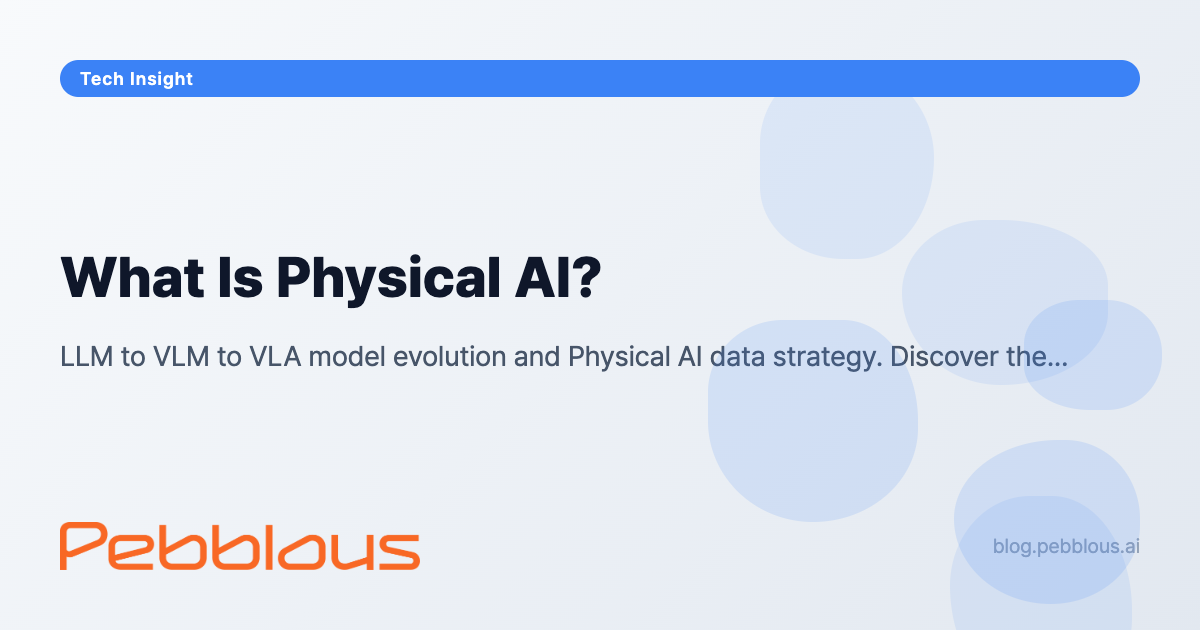
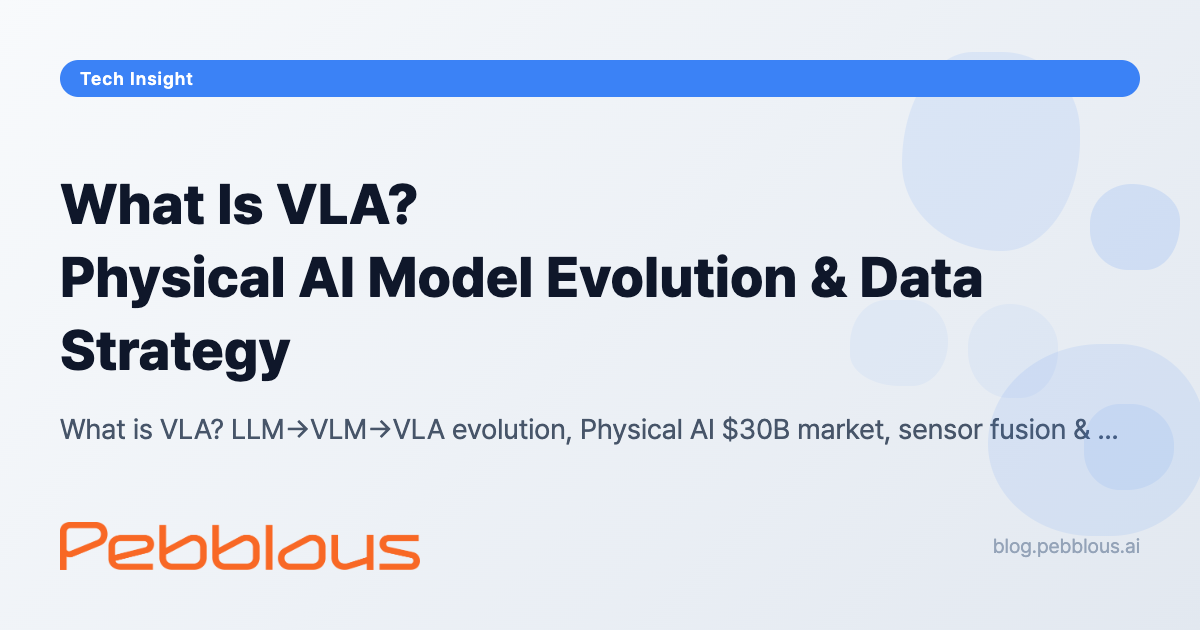
seo: Physical AI → VLA 키워드 앞배치 CTR 최적화 (KO/EN)
GSC: "vla" 키워드 +1,600% 급증, 노출 411 / CTR 4.4%
- title 앞에 "VLA(Vision-Language-Action)란?" 배치
- description에 VLA 모델 진화 경로 명시
- KO/EN meta, og, twitter, config, articles.json 동기화
- OG 이미지 재생성

SEO Action Plan P0 #2

diff --git a/project/PhysicalAI/physical-ai/ko/index.html b/project/PhysicalAI/physical-ai/ko/index.html
@@ -8,8 +8,8 @@
     <meta name="robots" content="index, follow">
     <meta name="revisit-after" content="7 days">
 
-    <title>피지컬 AI란? LLM과 VLA의 차이, 그리고 데이터 전략 | 페블러스</title>
-    <meta name="description" content="피지컬 AI란 무엇인가? LLM(언어)에서 VLM(시각), VLA(행동)까지 AI 모델의 진화와 차이점을 설명합니다. 2025년 40조 원 규모 시장, 센서 퓨전, Sim-to-Real Gap 등 핵심 데이터 전략을 확인하세요.">
+    <title>VLA(Vision-Language-Action)란? — 피지컬 AI 모델 진화와 데이터 전략 | 페블러스</title>
+    <meta name="description" content="VLA(Vision-Language-Action) 모델이란? LLM→VLM→VLA 진화 과정, 피지컬 AI 40조 원 시장, 센서 퓨전, Sim-to-Real Gap 등 핵심 데이터 전략을 비교합니다.">
     <meta name="keywords" content="피지컬 AI, Physical AI, VLA, VLM, LLM, Vision Language Action, 피지컬 AI 데이터, 센서 퓨전, Sim-to-Real Gap, 합성 데이터, Synthetic Data, 로보틱스 파운데이션 모델, 엠바디드 AI, Embodied AI, 피지컬 AI 2025, 휴머노이드, 스마트 팩토리, AI 자율제조, NVIDIA Omniverse, 디지털 트윈, 페블러스, Pebblous, DataClinic, AI-Ready Data, AI Safety, AI 안전성, 에지 컴퓨팅, Edge Computing, On-device AI, 온디바이스 AI, AI 레드티밍, Edge Case, 에지 케이스, Gartner, 자율 제조, AMR, AGV, Low Latency, Lightweight Data">
 
     <link rel="canonical" href="https://blog.pebblous.ai/project/PhysicalAI/physical-ai/ko/">
@@ -18,25 +18,25 @@
     <link rel="alternate" hreflang="x-default" href="https://blog.pebblous.ai/project/PhysicalAI/physical-ai/en/">
 
     <!-- Open Graph -->
-    <meta name="og-image-title" content="피지컬 AI란?&#10;LLM과 VLA의 차이, 그리고 데이터 전략">
-    <meta property="og:title" content="피지컬 AI란? LLM과 VLA의 차이, 그리고 데이터 전략">
-    <meta property="og:description" content="LLM→VLM→VLA 모델 진화와 피지컬 AI 데이터 전략. 2025년 40조 원 시장의 핵심을 확인하세요.">
+    <meta name="og-image-title" content="VLA(Vision-Language-Action)란?&#10;피지컬 AI 모델 진화와 데이터 전략">
+    <meta property="og:title" content="VLA(Vision-Language-Action)란? — 피지컬 AI 모델 진화와 데이터 전략">
+    <meta property="og:description" content="VLA 모델이란? LLM→VLM→VLA 진화 과정과 피지컬 AI 40조 원 시장의 핵심 데이터 전략을 비교합니다.">
     <meta property="og:type" content="article">
     <meta property="og:url" content="https://blog.pebblous.ai/project/PhysicalAI/physical-ai/ko/">
     <meta property="og:image" content="https://blog.pebblous.ai/project/PhysicalAI/image/physical-ai.png">
     <meta property="og:image:width" content="1200">
     <meta property="og:image:height" content="630">
-    <meta property="og:image:alt" content="피지컬 AI란? LLM과 VLA의 차이, 그리고 데이터 전략">
+    <meta property="og:image:alt" content="VLA(Vision-Language-Action)란? — 피지컬 AI 모델 진화와 데이터 전략">
     <meta property="og:site_name" content="Pebblous Blog">
     <meta property="og:locale" content="ko_KR">
     <meta property="article:published_time" content="2025-12-27">
 
     <!-- Twitter Card -->
     <meta name="twitter:card" content="summary_large_image">
-    <meta name="twitter:title" content="피지컬 AI란? LLM과 VLA의 차이, 그리고 데이터 전략">
-    <meta name="twitter:description" content="LLM→VLM→VLA 모델 진화와 피지컬 AI 데이터 전략. 2025년 40조 원 시장의 핵심.">
+    <meta name="twitter:title" content="VLA(Vision-Language-Action)란? — 피지컬 AI 모델 진화와 데이터 전략">
+    <meta name="twitter:description" content="VLA 모델이란? LLM→VLM→VLA 진화 과정과 피지컬 AI 40조 원 시장의 핵심 데이터 전략.">
     <meta name="twitter:image" content="https://blog.pebblous.ai/project/PhysicalAI/image/physical-ai.png">
-    <meta name="twitter:image:alt" content="피지컬 AI란? LLM과 VLA의 차이, 그리고 데이터 전략">
+    <meta name="twitter:image:alt" content="VLA(Vision-Language-Action)란? — 피지컬 AI 모델 진화와 데이터 전략">
     <meta name="twitter:site" content="@pebblous">
     <meta name="twitter:creator" content="@pebblous">
 
@@ -1371,9 +1371,9 @@
     <script>
         document.addEventListener('DOMContentLoaded', async function() {
             const config = {
-                mainTitle: "피지컬 AI란?",
-                subtitle: "LLM과 VLA의 차이, 그리고 데이터 전략",
-                pageTitle: "피지컬 AI(Physical AI)란? LLM과 VLA의 차이, 그리고 데이터 전략 | 페블러스",
+                mainTitle: "VLA(Vision-Language-Action)란?",
+                subtitle: "피지컬 AI 모델 진화와 데이터 전략",
+                pageTitle: "VLA(Vision-Language-Action)란? — 피지컬 AI 모델 진화와 데이터 전략 | 페블러스",
                 publishDate: "2025년 12월 27일",
                 publisher: "(주)페블러스 데이터 커뮤니케이션팀",
                 defaultTheme: "light",

diff --git a/project/PhysicalAI/physical-ai/en/index.html b/project/PhysicalAI/physical-ai/en/index.html
@@ -8,8 +8,8 @@
     <meta name="robots" content="index, follow">
     <meta name="revisit-after" content="7 days">
 
-    <title>Physical AI: LLM vs VLA Differences and Data Strategy | Pebblous</title>
-    <meta name="description" content="What is Physical AI? From LLM to VLM to VLA — understanding the model evolution, data strategy, and the $30B market opportunity in 2025.">
+    <title>What Is VLA (Vision-Language-Action)? — Physical AI Model Evolution & Data Strategy | Pebblous</title>
+    <meta name="description" content="What is VLA (Vision-Language-Action)? From LLM to VLM to VLA — the model evolution behind Physical AI, sensor fusion, Sim-to-Real Gap, and the $30B market data strategy.">
     <meta name="keywords" content="Physical AI, VLA, VLM, LLM, Vision Language Action, Physical AI Data, Sensor Fusion, Sim-to-Real Gap, Synthetic Data, Robotics Foundation Model, Embodied AI, Physical AI 2025, Humanoid, Smart Factory, AI Autonomous Manufacturing, NVIDIA Omniverse, Digital Twin, Pebblous, DataClinic, AI-Ready Data, AI Safety, Edge Computing, On-device AI, AI Red-teaming, Edge Case, Gartner, Autonomous Manufacturing, AMR, AGV, Low Latency, Lightweight Data">
 
     <link rel="canonical" href="https://blog.pebblous.ai/project/PhysicalAI/physical-ai/en/">
@@ -18,25 +18,25 @@
     <link rel="alternate" hreflang="x-default" href="https://blog.pebblous.ai/project/PhysicalAI/physical-ai/en/">
 
     <!-- Open Graph -->
-    <meta name="og-image-title" content="What Is Physical AI?">
-    <meta property="og:title" content="What Is Physical AI? Differences Between LLM and VLA, and Data Strategy">
-    <meta property="og:description" content="LLM to VLM to VLA model evolution and Physical AI data strategy. Discover the essentials of the $30B market in 2025.">
+    <meta name="og-image-title" content="What Is VLA?&#10;Physical AI Model Evolution & Data Strategy">
+    <meta property="og:title" content="What Is VLA (Vision-Language-Action)? — Physical AI Model Evolution & Data Strategy">
+    <meta property="og:description" content="What is VLA? LLM→VLM→VLA evolution, Physical AI $30B market, sensor fusion & Sim-to-Real Gap data strategy.">
     <meta property="og:type" content="article">
     <meta property="og:url" content="https://blog.pebblous.ai/project/PhysicalAI/physical-ai/en/">
     <meta property="og:image" content="https://blog.pebblous.ai/project/PhysicalAI/image/physical-ai.png">
     <meta property="og:image:width" content="1200">
     <meta property="og:image:height" content="630">
-    <meta property="og:image:alt" content="What Is Physical AI? Differences Between LLM and VLA, and Data Strategy">
+    <meta property="og:image:alt" content="What Is VLA (Vision-Language-Action)? — Physical AI Model Evolution & Data Strategy">
     <meta property="og:site_name" content="Pebblous Blog">
     <meta property="og:locale" content="en_US">
     <meta property="article:published_time" content="2025-12-27">
 
     <!-- Twitter Card -->
     <meta name="twitter:card" content="summary_large_image">
-    <meta name="twitter:title" content="What Is Physical AI? Differences Between LLM and VLA, and Data Strategy">
-    <meta name="twitter:description" content="LLM to VLM to VLA model evolution and Physical AI data strategy. The essentials of the $30B market in 2025.">
+    <meta name="twitter:title" content="What Is VLA (Vision-Language-Action)? — Physical AI Model Evolution & Data Strategy">
+    <meta name="twitter:description" content="What is VLA? LLM→VLM→VLA evolution and Physical AI $30B market data strategy explained.">
     <meta name="twitter:image" content="https://blog.pebblous.ai/project/PhysicalAI/image/physical-ai.png">
-    <meta name="twitter:image:alt" content="What Is Physical AI? Differences Between LLM and VLA, and Data Strategy">
+    <meta name="twitter:image:alt" content="What Is VLA (Vision-Language-Action)? — Physical AI Model Evolution & Data Strategy">
     <meta name="twitter:site" content="@pebblous">
     <meta name="twitter:creator" content="@pebblous">
 
@@ -1372,9 +1372,9 @@
     <script>
         document.addEventListener('DOMContentLoaded', async function() {
             const config = {
-                mainTitle: "What Is Physical AI?",
-                subtitle: "Differences Between LLM and VLA, and Data Strategy",
-                pageTitle: "What Is Physical AI? Differences Between LLM and VLA, and Data Strategy | Pebblous",
+                mainTitle: "What Is VLA (Vision-Language-Action)?",
+                subtitle: "Physical AI Model Evolution & Data Strategy",
+                pageTitle: "What Is VLA (Vision-Language-Action)? — Physical AI Model Evolution & Data Strategy | Pebblous",
                 publishDate: "December 27, 2025",
                 publisher: "Pebblous Data Communication Team",
                 defaultTheme: "light",
